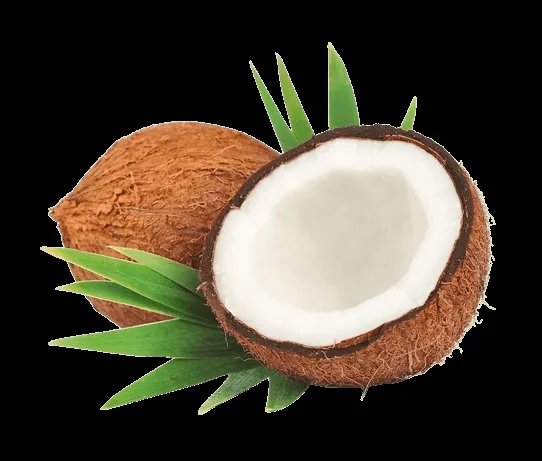
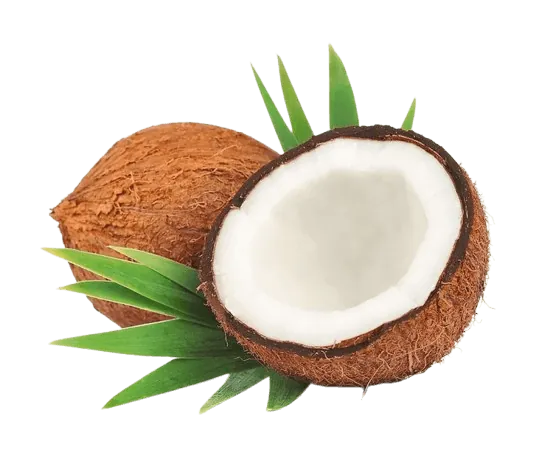
perf: resize + re-encode the image set to WebP (49.0 MB -> 7.8 MB)
src/assets shipped ~49 MB of unoptimised rasters. Vite copies whatever you
import straight into dist/, so a 4480x6720 phone photo (7.5 MB) was being
downloaded in full to fill a 640px avatar card.

Ran scripts/optimize-images.mjs --write over all 103 images: resize to the
width they are actually displayed at, encode WebP q80. 90 .webp files
written, 24 source files repointed. Originals are kept on disk, so
`git checkout -- src` reverts.

Also fixes the script itself: it flattened every source to white, but 45 of
the 49 PNGs have a transparent channel and several sit on non-white surfaces
— the green wordmark on the #1f1611 footer, the 24px unit icons on coloured
cards. Flattening would have put a white box behind each one. Alpha is now
preserved; flatten only runs for sources that have no alpha, where it is a
no-op anyway. Lossy WebP stores alpha losslessly, so nothing is lost.

Biggest wins: Kehinde 7.54 MB -> 21 KB, Daniel 4.69 MB -> 115 KB,
aboutbackground1 2.36 MB -> 288 KB, contact-bg 1.38 MB -> 95 KB.

Verified in Edge against `vite preview`: 40 images on the homepage, 30 of
them .webp, zero broken, footer wordmark still transparent on the dark
background. The current build references the new hashes only — the 7.9 MB
.jpg still sitting in dist/ is stale output from emptyOutDir:false, not part
of this build.

diff --git a/src/pages/figma/images.ts b/src/pages/figma/images.ts
@@ -32,49 +32,49 @@
 import navLogo from '../../assets/nav-logo.png';
 
 // ── Home ───────────────────────────────────────────────────────────────────
-import homeEcoCocotech from '../../assets/home-eco-cocotech.jpeg';
-import homeEcoCococycle from '../../assets/home-eco-cococycle.png';
-import homeEcoCocodrinkeat from '../../assets/home-eco-cocodrinkeat.png';
-import homeMarketCocopeat from '../../assets/home-market-cocopeat.png';
-import homeMarketFibre from '../../assets/home-market-fibre.png';
-import homeMarketOil from '../../assets/home-market-oil.png';
-import homeMarketShell from '../../assets/home-market-shell.png';
-import homeCocotechImg from '../../assets/home-cocotech-img.jpeg';
-import homeCococycleImg from '../../assets/home-cococycle-img.png';
-import homeCocodrinkeatImg from '../../assets/home-cocodrinkeat-img.png';
+import homeEcoCocotech from '../../assets/home-eco-cocotech.webp';
+import homeEcoCococycle from '../../assets/home-eco-cococycle.webp';
+import homeEcoCocodrinkeat from '../../assets/home-eco-cocodrinkeat.webp';
+import homeMarketCocopeat from '../../assets/home-market-cocopeat.webp';
+import homeMarketFibre from '../../assets/home-market-fibre.webp';
+import homeMarketOil from '../../assets/home-market-oil.webp';
+import homeMarketShell from '../../assets/home-market-shell.webp';
+import homeCocotechImg from '../../assets/home-cocotech-img.webp';
+import homeCococycleImg from '../../assets/home-cococycle-img.webp';
+import homeCocodrinkeatImg from '../../assets/home-cocodrinkeat-img.webp';
 
 // ── Desktop 8 · Our Processing Equipment ───────────────────────────────────
-import equip1 from '../../assets/equip-1.jpeg';
-import equip2 from '../../assets/equip-2.png';
-import equip3 from '../../assets/equip-3.png';
-import equip4 from '../../assets/equip-4.png';
-import equipProductionBg from '../../assets/equip-production-bg.png';
+import equip1 from '../../assets/equip-1.webp';
+import equip2 from '../../assets/equip-2.webp';
+import equip3 from '../../assets/equip-3.webp';
+import equip4 from '../../assets/equip-4.webp';
+import equipProductionBg from '../../assets/equip-production-bg.webp';
 
 // ── Desktop 11 · CocoCycle Hub ─────────────────────────────────────────────
-import cocycleHero from '../../assets/cocycle-hero.png';
-import cocycleP1 from '../../assets/cocycle-p1.png';
-import cocycleP2 from '../../assets/cocycle-p2.png';
-import cocycleP3 from '../../assets/cocycle-p3.png';
-import cocycleP4 from '../../assets/cocycle-p4.png';
-import cocycleOffer1 from '../../assets/cocycle-offer-1.png';
-import cocycleOffer2 from '../../assets/cocycle-offer-2.png';
-import cocycleOffer3 from '../../assets/cocycle-offer-3.png';
+import cocycleHero from '../../assets/cocycle-hero.webp';
+import cocycleP1 from '../../assets/cocycle-p1.webp';
+import cocycleP2 from '../../assets/cocycle-p2.webp';
+import cocycleP3 from '../../assets/cocycle-p3.webp';
+import cocycleP4 from '../../assets/cocycle-p4.webp';
+import cocycleOffer1 from '../../assets/cocycle-offer-1.webp';
+import cocycleOffer2 from '../../assets/cocycle-offer-2.webp';
+import cocycleOffer3 from '../../assets/cocycle-offer-3.webp';
 
 // ── Certificates (used by Desktop 8 and Desktop 11) ────────────────────────
 import cert1 from '../../assets/cert-1-photo.jpg';
 import cert2 from '../../assets/cert-2-photo.jpg';
-import cert3 from '../../assets/cert-3-photo.jpg';
-import certificateBg from '../../assets/CERTIFICATEBG.png';
+import cert3 from '../../assets/cert-3-photo.webp';
+import certificateBg from '../../assets/CERTIFICATEBG.webp';
 
 // ── Desktop 20 · Login ─────────────────────────────────────────────────────
-import loginPanel from '../../assets/login-panel.png';
+import loginPanel from '../../assets/login-panel.webp';
 
 // ── S 19 · Sign up ─────────────────────────────────────────────────────────
-import signupPanel from '../../assets/signup-panel.png';
+import signupPanel from '../../assets/signup-panel.webp';
 
 // ── Desktop 43 · Contact us ────────────────────────────────────────────────
-import contactBg from '../../assets/contact-bg.png';
-import contactCoconutIcon from '../../assets/contact-coconut-icon.png';
+import contactBg from '../../assets/contact-bg.webp';
+import contactCoconutIcon from '../../assets/contact-coconut-icon.webp';
 
 export const FIGMA_IMAGES: Record<string, string> = {
   // ── Shared chrome ────────────────────────────────────────────────────────

diff --git a/src/components/figma/homeSectionImages.ts b/src/components/figma/homeSectionImages.ts
@@ -13,37 +13,37 @@
  */
 
 // ── Coco-Tech ──────────────────────────────────────────────────────────────
-import IMG_0036 from '../../assets/IMG_0036.jpg';
-import IMG_0024 from '../../assets/IMG_0024.jpg';
-import IMG_0023 from '../../assets/IMG_0023.jpg';
-import IMG_20250311_180248 from '../../assets/IMG_20250311_180248.jpg';
-import dehusking from '../../assets/dehusking.jpg';
-import dehusking2 from '../../assets/dehusking2.jpg';
-import IMG_0369 from '../../assets/IMG_0369.jpg';
-import homeCocotechImg from '../../assets/home-cocotech-img.jpeg';
+import IMG_0036 from '../../assets/IMG_0036.webp';
+import IMG_0024 from '../../assets/IMG_0024.webp';
+import IMG_0023 from '../../assets/IMG_0023.webp';
+import IMG_20250311_180248 from '../../assets/IMG_20250311_180248.webp';
+import dehusking from '../../assets/dehusking.webp';
+import dehusking2 from '../../assets/dehusking2.webp';
+import IMG_0369 from '../../assets/IMG_0369.webp';
+import homeCocotechImg from '../../assets/home-cocotech-img.webp';
 
 // ── Cococycle Hub ──────────────────────────────────────────────────────────
-import cocoplant from '../../assets/cocoplant.jpg';
-import cocofiber from '../../assets/cocofiber.png';
-import cocopeat from '../../assets/cocopeat.jpg';
-import fiber2 from '../../assets/fiber2.jpg';
+import cocoplant from '../../assets/cocoplant.webp';
+import cocofiber from '../../assets/cocofiber.webp';
+import cocopeat from '../../assets/cocopeat.webp';
+import fiber2 from '../../assets/fiber2.webp';
 import cocpeat1 from '../../assets/cocpeat1.jpeg';
 import fiber from '../../assets/fiber.jpeg';
-import cocopot from '../../assets/cocopot.jpg';
-import cocopot4 from '../../assets/cocopot4.jpg';
+import cocopot from '../../assets/cocopot.webp';
+import cocopot4 from '../../assets/cocopot4.webp';
 import cocofiber3 from '../../assets/cocofiber3.jpg';
 import cocopot2 from '../../assets/cocopot2.jpg';
-import homeCococycleImg from '../../assets/home-cococycle-img.png';
+import homeCococycleImg from '../../assets/home-cococycle-img.webp';
 
 // ── Coco DrinkEat ──────────────────────────────────────────────────────────
-import IMG_20250718_104052 from '../../assets/IMG_20250718_104052.jpg';
-import coccdrinkit from '../../assets/coccdrinkit.jpg';
-import homeCocodrinkeatImg from '../../assets/home-cocodrinkeat-img.png';
+import IMG_20250718_104052 from '../../assets/IMG_20250718_104052.webp';
+import coccdrinkit from '../../assets/coccdrinkit.webp';
+import homeCocodrinkeatImg from '../../assets/home-cocodrinkeat-img.webp';
 
 // ── Ecosystem card thumbnails ──────────────────────────────────────────────
-import homeEcoCocotech from '../../assets/home-eco-cocotech.jpeg';
-import homeEcoCococycle from '../../assets/home-eco-cococycle.png';
-import homeEcoCocodrinkeat from '../../assets/home-eco-cocodrinkeat.png';
+import homeEcoCocotech from '../../assets/home-eco-cocotech.webp';
+import homeEcoCococycle from '../../assets/home-eco-cococycle.webp';
+import homeEcoCocodrinkeat from '../../assets/home-eco-cocodrinkeat.webp';
 import cocoTechIcon from '../../assets/cococtechicon.svg';
 import cocoCycleIcon from '../../assets/coccyclehubicon.svg';
 import cocoDrinkEatIcon from '../../assets/cocdrinkeathomeicon.svg';
@@ -67,8 +67,8 @@ export { default as navLogo } from '../../assets/nav-logo.png';
  * Re-exported from here so `FigmaHomeSections` keeps importing every home-section
  * image from one place, like `navLogo` above.
  */
-export { default as efficientMachineIcon } from '../../assets/efficentimachineicon.png';
-export { default as lowMaintenanceIcon } from '../../assets/lowmentainace icon.png';
+export { default as efficientMachineIcon } from '../../assets/efficentimachineicon.webp';
+export { default as lowMaintenanceIcon } from '../../assets/lowmentainace icon.webp';
 
 /**
  * Pillar slideshows — the old home page's photo set for that section, with the

diff --git a/src/data/profiles.ts b/src/data/profiles.ts
@@ -1,15 +1,15 @@
-import JacobPhoto from '../assets/team/Jacob.jpg';
-import JamiuPhoto from '../assets/team/Jamiu.png';
-import DanielPhoto from '../assets/team/Daniel.jpg';
-import MojolaoluwaPhoto from '../assets/team/Mojolaoluwa Abiodun Jolaoluwa.jpg';
-import PreciousCharlesPhoto from '../assets/team/Precious (Charles).jpg';
-import AbiolaPreciousPhoto from '../assets/team/Abiola Precious.jpg';
-import EnochPhoto from '../assets/team/enoch.jpeg';
-import OluwatokeFaejiPhoto from '../assets/team/Oluwatoke Faeji.jpeg';
-import TimilehinOluwayemiPhoto from '../assets/team/Oluwayemi.jpeg';
-import KehindePhoto from '../assets/team/Kehinde Elizabeth OMITOYIN.jpg';
-import TaiwoPhoto from '../assets/team/taiwo omitoyin .jpeg';
-import TunmisePhoto from '../assets/team/Oyeyode Tunmise.jpeg';
+import JacobPhoto from '../assets/team/Jacob.webp';
+import JamiuPhoto from '../assets/team/Jamiu.webp';
+import DanielPhoto from '../assets/team/Daniel.webp';
+import MojolaoluwaPhoto from '../assets/team/Mojolaoluwa Abiodun Jolaoluwa.webp';
+import PreciousCharlesPhoto from '../assets/team/Precious (Charles).webp';
+import AbiolaPreciousPhoto from '../assets/team/Abiola Precious.webp';
+import EnochPhoto from '../assets/team/enoch.webp';
+import OluwatokeFaejiPhoto from '../assets/team/Oluwatoke Faeji.webp';
+import TimilehinOluwayemiPhoto from '../assets/team/Oluwayemi.webp';
+import KehindePhoto from '../assets/team/Kehinde Elizabeth OMITOYIN.webp';
+import TaiwoPhoto from '../assets/team/taiwo omitoyin .webp';
+import TunmisePhoto from '../assets/team/Oyeyode Tunmise.webp';
 
 export interface Profile {
   id: string;

diff --git a/src/components/CocotechRD.tsx b/src/components/CocotechRD.tsx
@@ -1,11 +1,11 @@
 import React, { useState, useEffect } from 'react';
-import IMG_0036 from '../assets/IMG_0036.jpg';
-import IMG_0024 from '../assets/IMG_0024.jpg';
-import IMG_0023 from '../assets/IMG_0023.jpg';
-import IMG_20250311_180248 from '../assets/IMG_20250311_180248.jpg';
-import dehusking from '../assets/dehusking.jpg';
-import dehusking2 from '../assets/dehusking2.jpg';
-import IMG_0369 from '../assets/IMG_0369.jpg';
+import IMG_0036 from '../assets/IMG_0036.webp';
+import IMG_0024 from '../assets/IMG_0024.webp';
+import IMG_0023 from '../assets/IMG_0023.webp';
+import IMG_20250311_180248 from '../assets/IMG_20250311_180248.webp';
+import dehusking from '../assets/dehusking.webp';
+import dehusking2 from '../assets/dehusking2.webp';
+import IMG_0369 from '../assets/IMG_0369.webp';
 
 export function CocotechRD() {
   const [currentImageIndex, setCurrentImageIndex] = useState(0);

diff --git a/src/pages/FigmaAbout.tsx b/src/pages/FigmaAbout.tsx
@@ -4,11 +4,11 @@ import { useEffect, useRef } from 'react';
 import FigmaNav from '../components/figma/FigmaNav';
 import AboutFooter from '../components/about/AboutFooter';
 import { profiles } from '../data/profiles';
-import heroBg from '../assets/aboutbackground1.png';
-import cocodot from '../assets/cocodot.png';
-import missonDot from '../assets/misson.png';
-import missionImage from '../assets/plant.png';
-import visionImage from '../assets/visionimage.png';
+import heroBg from '../assets/aboutbackground1.webp';
+import cocodot from '../assets/cocodot.webp';
+import missonDot from '../assets/misson.webp';
+import missionImage from '../assets/plant.webp';
+import visionImage from '../assets/visionimage.webp';
 
 const missionPoints = [
   'Empower farmers with technology, markets, fair pricing, and new income opportunities from coconuts and their by-products.',

diff --git a/src/components/CococycleHub.tsx b/src/components/CococycleHub.tsx
@@ -1,12 +1,12 @@
 import React, { useState, useEffect } from 'react';
-import cocoplant from '../assets/cocoplant.jpg';
-import cocofiber from '../assets/cocofiber.png';
-import cocopeat from '../assets/cocopeat.jpg';
-import fiber2 from '../assets/fiber2.jpg';
+import cocoplant from '../assets/cocoplant.webp';
+import cocofiber from '../assets/cocofiber.webp';
+import cocopeat from '../assets/cocopeat.webp';
+import fiber2 from '../assets/fiber2.webp';
 import cocpeat1 from '../assets/cocpeat1.jpeg';
 import fiber from '../assets/fiber.jpeg';
-import cocopot from '../assets/cocopot.jpg';
-import cocopot4 from '../assets/cocopot4.jpg';
+import cocopot from '../assets/cocopot.webp';
+import cocopot4 from '../assets/cocopot4.webp';
 import cocofiber3 from '../assets/cocofiber3.jpg';
 import cocopot2 from '../assets/cocopot2.jpg';
 

diff --git a/src/components/CocoDrinkEat.tsx b/src/components/CocoDrinkEat.tsx
@@ -1,10 +1,10 @@
 import React, { useState, useEffect } from 'react';
 import { BookEventModal } from './BookEventModal';
-import IMG_0036 from '../assets/IMG_0036.jpg';
-import IMG_0024 from '../assets/IMG_0024.jpg';
-import IMG_0023 from '../assets/IMG_0023.jpg';
-import IMG_WHATSAPP from '../assets/IMG_20250718_104052.jpg';
-import IMG_STRAW from '../assets/coccdrinkit.jpg';
+import IMG_0036 from '../assets/IMG_0036.webp';
+import IMG_0024 from '../assets/IMG_0024.webp';
+import IMG_0023 from '../assets/IMG_0023.webp';
+import IMG_WHATSAPP from '../assets/IMG_20250718_104052.webp';
+import IMG_STRAW from '../assets/coccdrinkit.webp';
 
 export function CocoDrinkEat() {
   const [showModal, setShowModal] = useState(false);

diff --git a/src/pages/product/machines/machinesData.ts b/src/pages/product/machines/machinesData.ts
@@ -1,8 +1,8 @@
 import { Machine } from './types';
-import deshellerImage from '../../../assets/IMG_20250311_180248.jpg';
-import dehuskerImage from '../../../assets/dehusking.jpg';
-import cocomilkImageAuto from '../../../assets/coconut-milk.jpg';
-import cocomilkImageManual from '../../../assets/coconut-milk-manual.jpg';
+import deshellerImage from '../../../assets/IMG_20250311_180248.webp';
+import dehuskerImage from '../../../assets/dehusking.webp';
+import cocomilkImageAuto from '../../../assets/coconut-milk.webp';
+import cocomilkImageManual from '../../../assets/coconut-milk-manual.webp';
 
 export const machines: Machine[] = [
   {

diff --git a/src/pages/services/machines/machinesData.ts b/src/pages/services/machines/machinesData.ts
@@ -1,8 +1,8 @@
 import { Machine } from './types';
-import deshellerImage from '../../../assets/IMG_20250311_180248.jpg';
-import dehuskerImage from '../../../assets/dehusking.jpg';
-import cocomilkImageAuto from '../../../assets/coconut-milk.jpg';
-import cocomilkImageManual from '../../../assets/coconut-milk-manual.jpg';
+import deshellerImage from '../../../assets/IMG_20250311_180248.webp';
+import dehuskerImage from '../../../assets/dehusking.webp';
+import cocomilkImageAuto from '../../../assets/coconut-milk.webp';
+import cocomilkImageManual from '../../../assets/coconut-milk-manual.webp';
 
 export const machines: Machine[] = [
   {

diff --git a/src/components/CocoConnect.tsx b/src/components/CocoConnect.tsx
@@ -1,10 +1,10 @@
 import React, { useState, useEffect } from 'react';
 import { useNavigate } from 'react-router-dom';
 import { WaitlistModal } from './WaitlistModal';
-import coconutwater11 from '../assets/coconutwater11.jpg';
+import coconutwater11 from '../assets/coconutwater11.webp';
 import coconutstillinshell from '../assets/coconutstillinshell.avif';
 import browncoconut from '../assets/browncoconut.avif';
-import coconutoil from '../assets/coconutoil.jpg';
+import coconutoil from '../assets/coconutoil.webp';
 
 export function CocoConnect() {
   const [currentImageIndex, setCurrentImageIndex] = useState(0);

diff --git a/src/components/Hero.tsx b/src/components/Hero.tsx
@@ -1,8 +1,8 @@
 import React, { Suspense, lazy, useState } from 'react';
 import { Link } from 'react-router-dom';
 import Logo from '../assets/Logo_1.png';
-import GoogleSearch1 from '../assets/coconut_google_search.png';
-import GoogleSearch2 from '../assets/coconut_google_search-2.png';
+import GoogleSearch1 from '../assets/coconut_google_search.webp';
+import GoogleSearch2 from '../assets/coconut_google_search-2.webp';
 /**
  * Lazy + mount-on-demand. WaitlistModal returns null while closed, so gating on
  * the open flag is visually identical — but the static import pulled

diff --git a/src/pages/services/ServicesHero.tsx b/src/pages/services/ServicesHero.tsx
@@ -1,8 +1,8 @@
 import React, { useState } from 'react';
 import { Link } from 'react-router-dom';
 import Logo from '../../assets/Logo_1.png';
-import GoogleSearch1 from '../../assets/coconut_google_search.png';
-import GoogleSearch2 from '../../assets/coconut_google_search-2.png';
+import GoogleSearch1 from '../../assets/coconut_google_search.webp';
+import GoogleSearch2 from '../../assets/coconut_google_search-2.webp';
 import { WaitlistModal } from '../../components/WaitlistModal';
 
 export function ServicesHero() {
